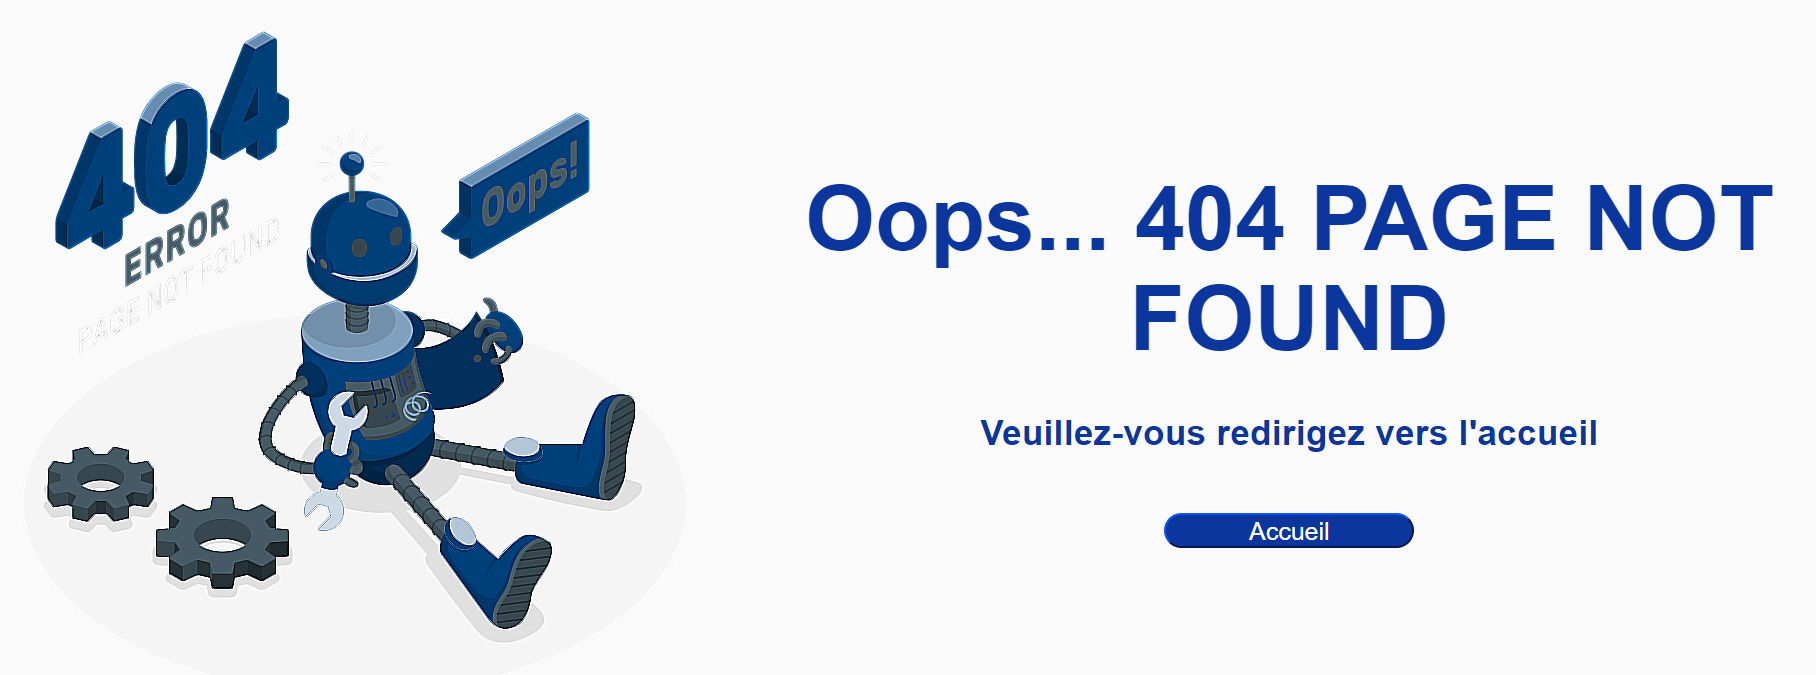
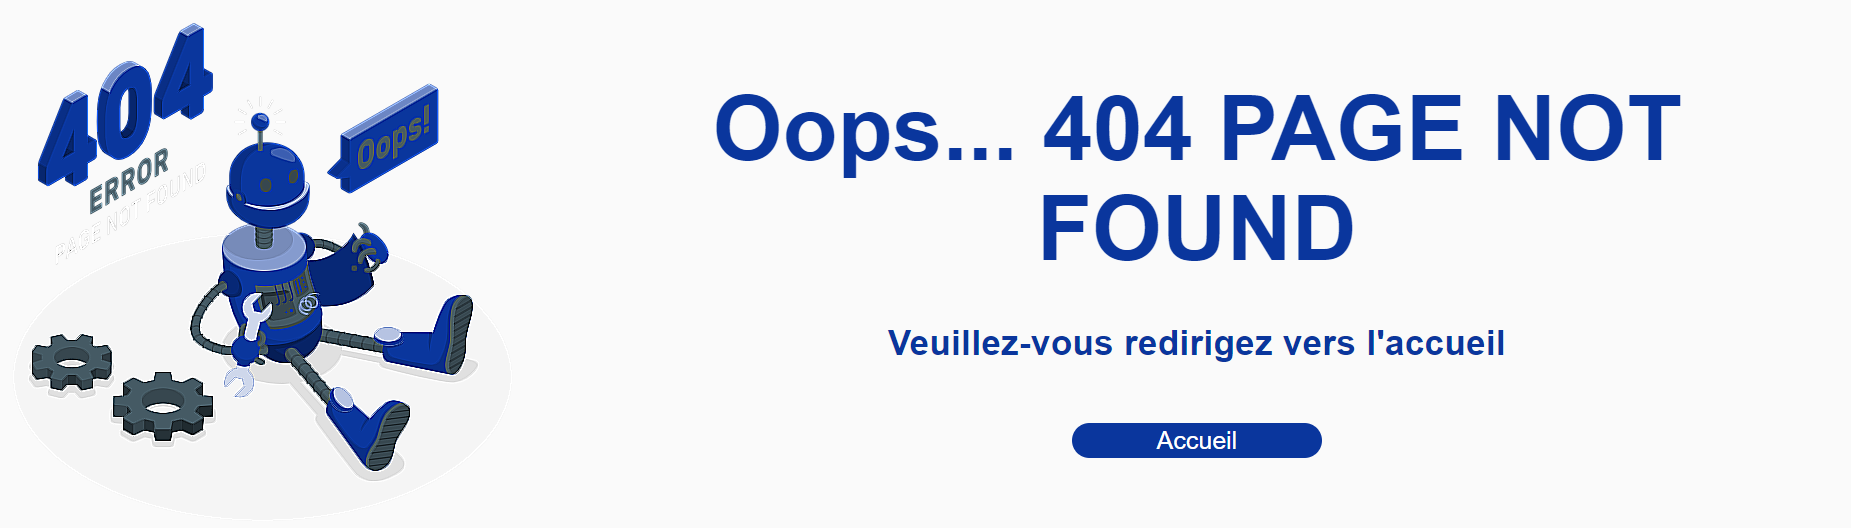
Update images

diff --git a/src/app/users-list/users-list.component.ts b/src/app/users-list/users-list.component.ts
@@ -30,6 +30,8 @@ export class UsersListComponent implements OnInit {
         this.api.get({endpoint : '/roles/' + member.id + '/' + this.id}).then(response => {
           console.log(response.name);
           this.roles.set(member, response.name);
+          console.log("la map est :");
+          console.log(this.roles);
         });
     }
   }

diff --git a/src/app/page-not-found/page-not-found.component.css b/src/app/page-not-found/page-not-found.component.css
@@ -22,5 +22,5 @@ button {
   align-items: center;
 }
 img {
-  width: 40%;
+  width: 30%;
 }
